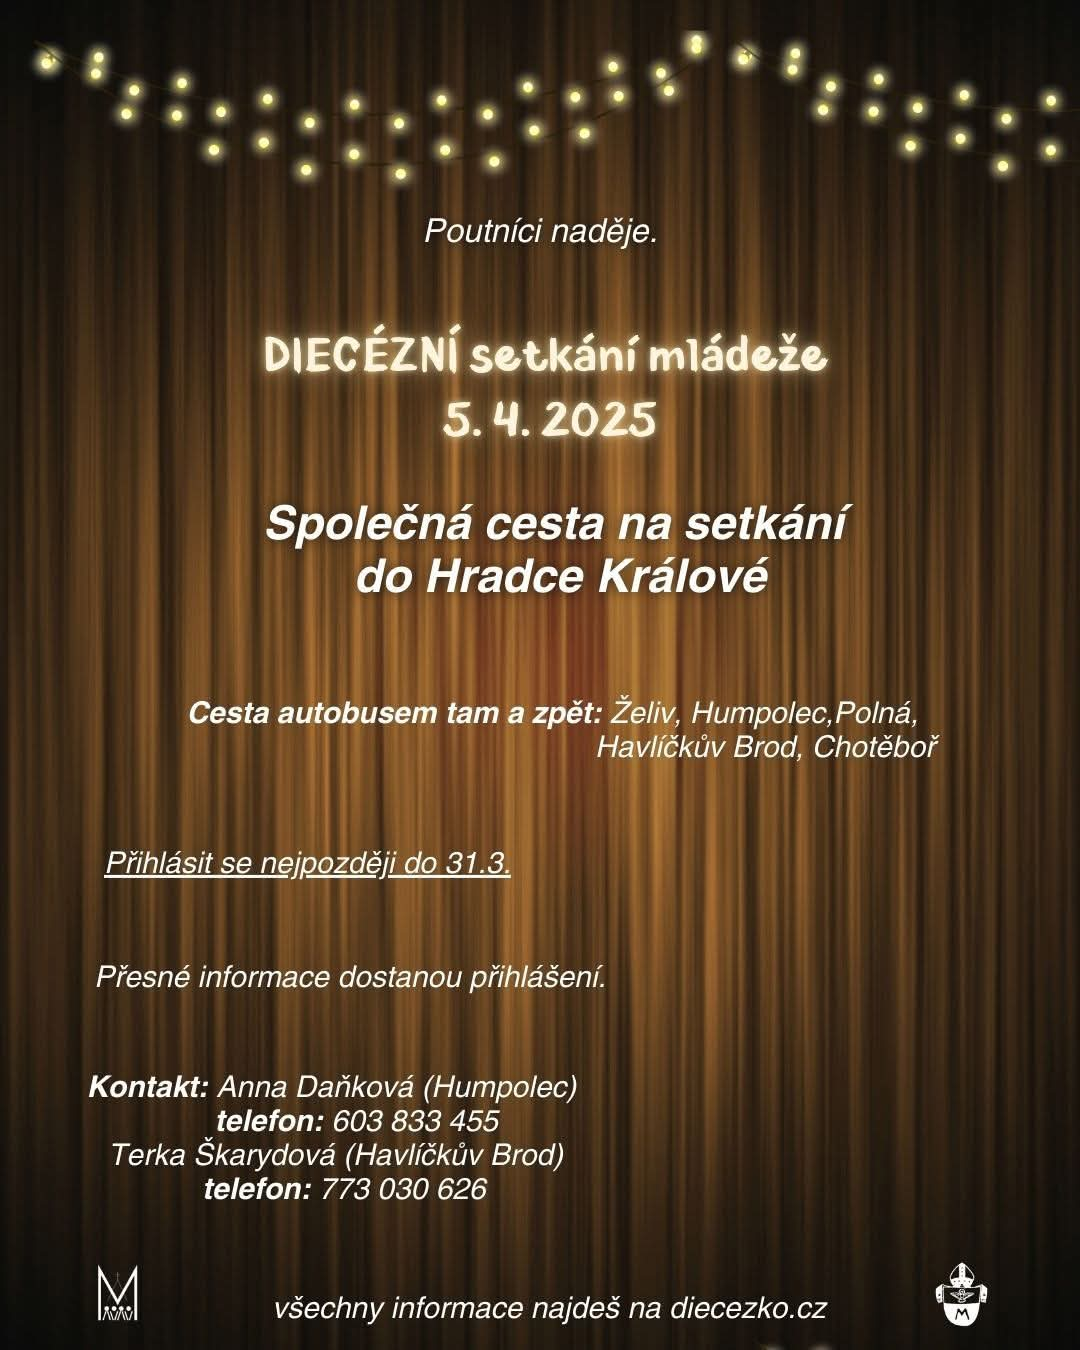
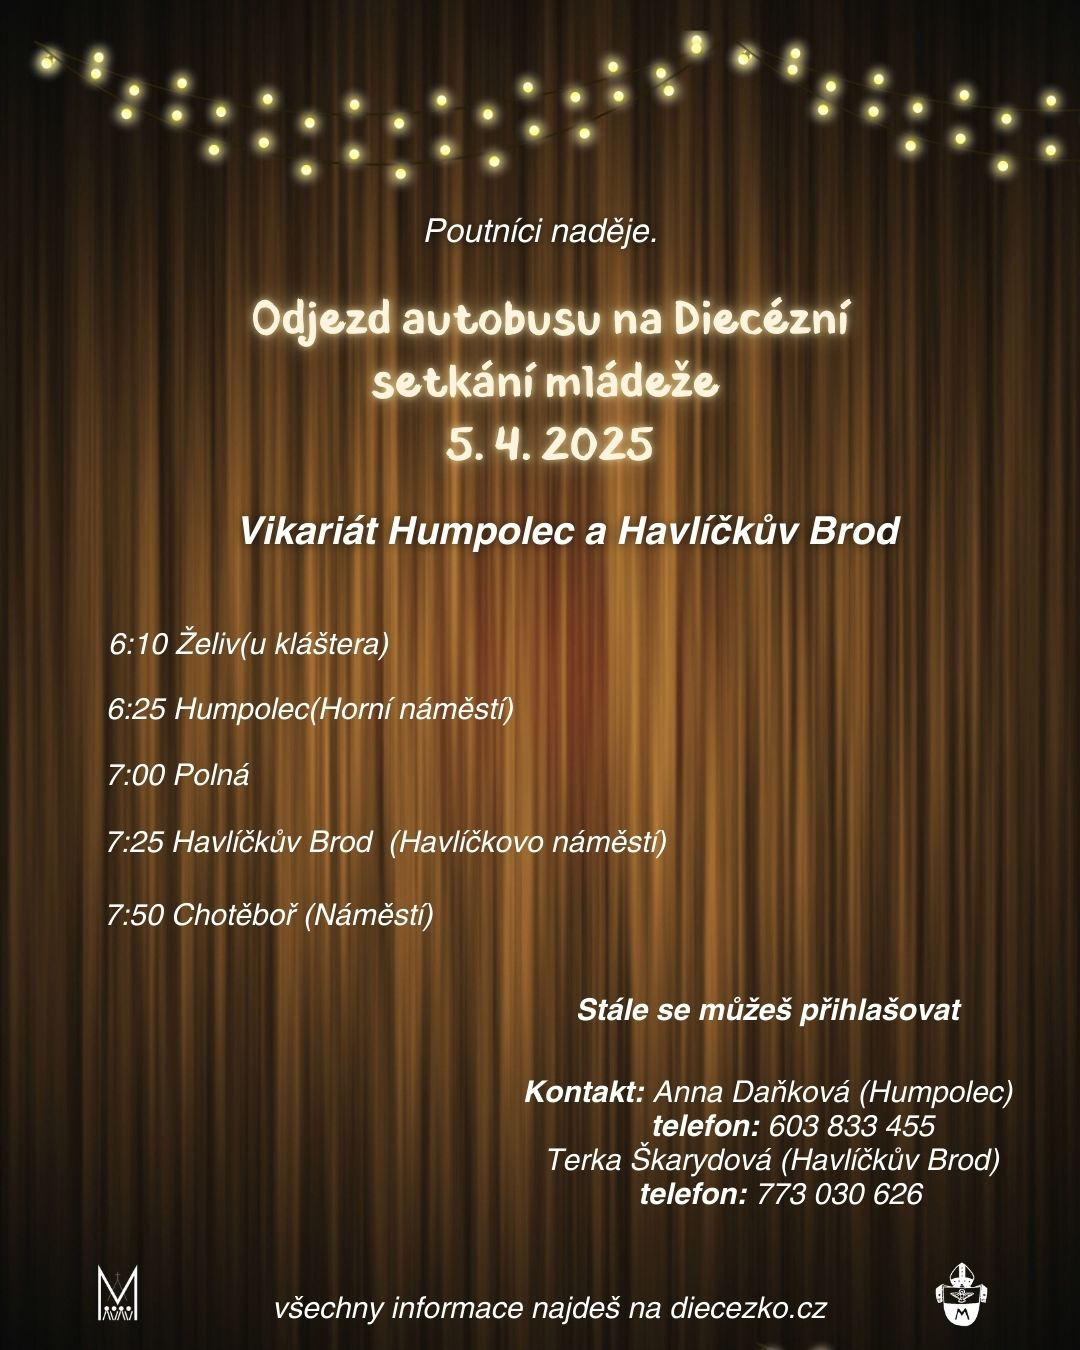
Update information about transportation from vicariate (#636)
* Update transport from vicariate Humpolec a Havlickuv Brod

* Fix typo medical assistance

* Generate webp format

Changed region(s): [[0.0917, 0.3733, 0.8861, 0.6844], [0.0917, 0.7156, 0.9167, 0.9022], [0.2139, 0.2178, 0.7944, 0.3422]]

diff --git a/components/faq.js b/components/faq.js
@@ -11,11 +11,11 @@ export default function FAQ() {
       <FaqBox question={`Kde seženu zdravotní pomoc?`} icon={`medical`}>
         V případě jakéhokoliv zdravotního problému se neváhej obrátit na naši{" "}
         <strong>zdravotnickou službu</strong>, kterou poznáš podle oblečení
-        a&nbsp;dostihneš ji na tel.{" "}
+        a&nbsp;dostihneš ji na tel. čísle{" "}
         <Link href={`tel:+420605578474`} target="_blank" className="underline">
           605 578 474
-        </Link>{" "}
-        . V&nbsp;závažných případech neváhej a&nbsp;volej IZS na tel. číslo{" "}
+        </Link>
+        . V&nbsp;závažných případech neváhej a&nbsp;volej IZS tel. číslem{" "}
         <Link href={`tel:155`} className="underline">
           155
         </Link>
